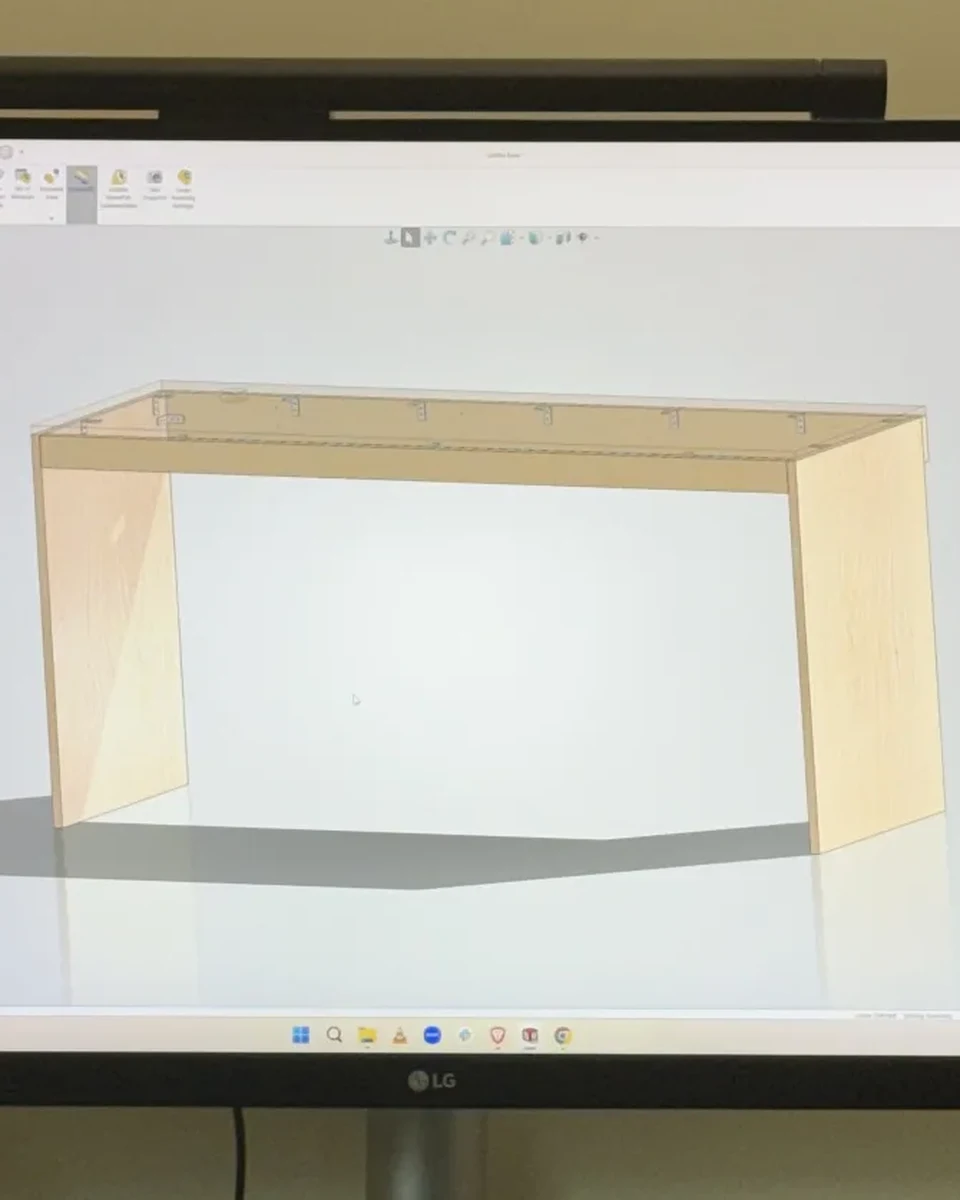
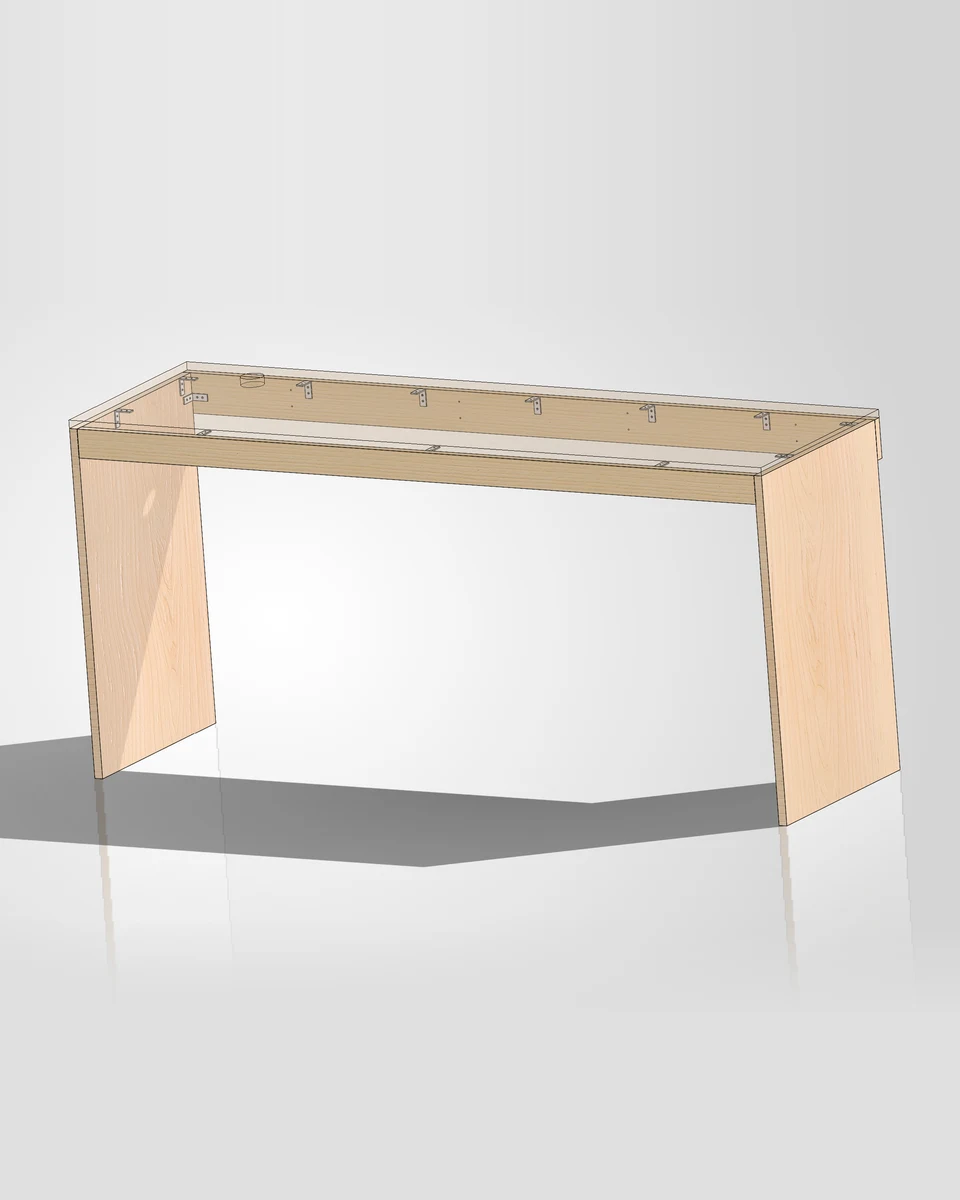
Draft: Cloffice, real SolidWorks screenshot in the opening row
Claude-Session: https://claude.ai/code/session_01CVY6wCxfQDYE3dbjZCgMcR

diff --git a/src/content/work/cloffice-desk.md b/src/content/work/cloffice-desk.md
@@ -39,7 +39,7 @@ I needed a real place to work after deciding to build out a breakfast nook and n
 
 <figure class="trio row">
   <img src="/work/cloffice-desk-assets/before.webp" alt="The empty closet before the build, with a hanging rod and a 3D printer on the floor"/>
-  <img src="/work/cloffice-desk-assets/model-screen.webp" alt="Close-up of the monitor showing the SolidWorks assembly of the desk"/>
+  <img src="/work/cloffice-desk-assets/model-screen.webp" alt="The desk assembly in SolidWorks: two plywood legs, a front apron, and corner braces under a see-through top"/>
   <img src="/work/cloffice-desk-assets/installed-tall.webp" alt="The installed desk in the closet with a 4 foot level on top"/>
   <figcaption>Before, the desk's own model on screen, and a week later.</figcaption>
 </figure>
